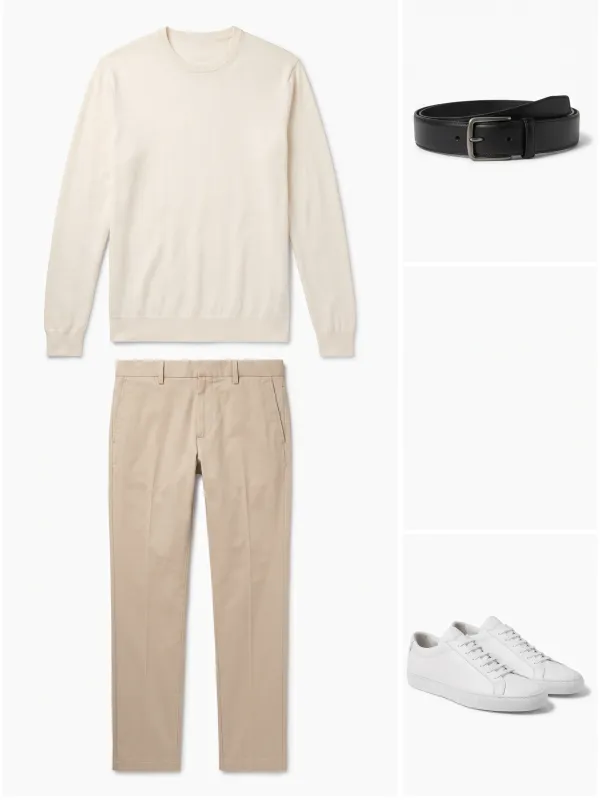
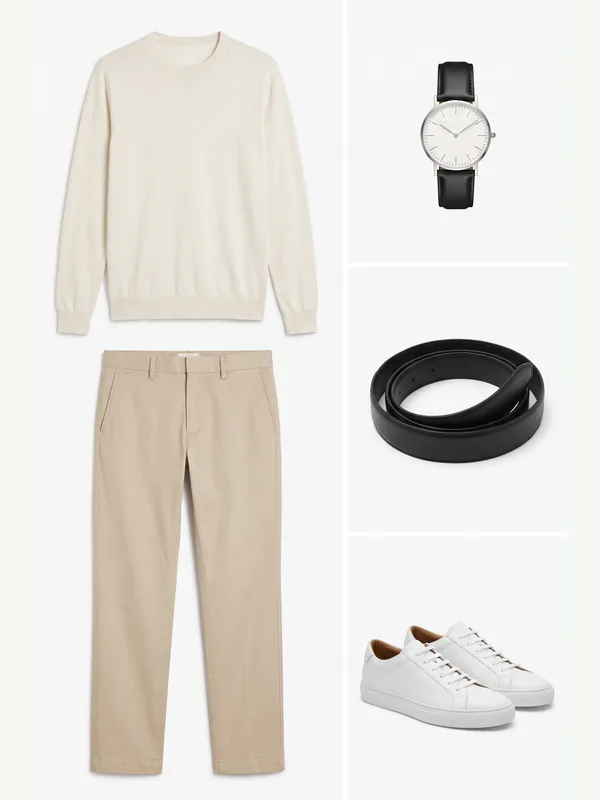
TuCloset web: app.js?v=0.318 · 19/11 02:15

diff --git a/index.html b/index.html
@@ -21,8 +21,8 @@
 <link rel="icon" href="iconos/icono-129-180.png">
 <link rel="apple-touch-icon" href="iconos/icono-129-180.png">
 <link rel="stylesheet" href="fuentes.css?v=0.123"><!-- 0.123: letras en la propia web, sin Google Fonts (sin enviar la IP de nadie a Google) -->
-<link rel="stylesheet" href="app.css?v=0.317">
-<script>/* 06/11 noche: propuesta de modo oscuro (Gabriela). ?modo=oscuro lo enciende en ese navegador, ?modo=claro lo apaga; oscuro.css solo se carga encendido */ try { var mq = new URLSearchParams(location.search).get('modo'); if (mq === 'oscuro' || mq === 'claro') localStorage.setItem('tc_modo', mq); document.documentElement.dataset.fondo = '4'; localStorage.removeItem('tc_fondo'); /* 07/11: fondo «Sin tarjeta», elegido por Gabriela */ if (localStorage.getItem('tc_modo') === 'oscuro') { document.documentElement.classList.add('oscuro'); document.querySelector('meta[name="theme-color"]').content = '#1A1410'; document.querySelector('meta[name="color-scheme"]').content = 'dark'; document.write('<link rel="stylesheet" href="oscuro.css?v=0.317">'); } } catch (e) { }</script>
+<link rel="stylesheet" href="app.css?v=0.318">
+<script>/* 06/11 noche: propuesta de modo oscuro (Gabriela). ?modo=oscuro lo enciende en ese navegador, ?modo=claro lo apaga; oscuro.css solo se carga encendido */ try { var mq = new URLSearchParams(location.search).get('modo'); if (mq === 'oscuro' || mq === 'claro') localStorage.setItem('tc_modo', mq); document.documentElement.dataset.fondo = '4'; localStorage.removeItem('tc_fondo'); /* 07/11: fondo «Sin tarjeta», elegido por Gabriela */ if (localStorage.getItem('tc_modo') === 'oscuro') { document.documentElement.classList.add('oscuro'); document.querySelector('meta[name="theme-color"]').content = '#1A1410'; document.querySelector('meta[name="color-scheme"]').content = 'dark'; document.write('<link rel="stylesheet" href="oscuro.css?v=0.318">'); } } catch (e) { }</script>
 </head>
 <body>
 <svg width="0" height="0" style="position:absolute" aria-hidden="true">
@@ -243,7 +243,7 @@
   <nav class="y3-nav" id="yo-lista" aria-label="Tu perfil"></nav>
   <!-- 0.114 (Gabriela, 28/10: «sigo sin ver la opción de ajustes, básico en cualquier app… ubícate en un panel de opciones: letra un poco más oscura, iconos, intuitivo, sin redundancias»): panel por grupos;
        desde el 08/11 vive en su propia pantalla (abrirAjustes) -->
-  <p class="nota" id="yo-version">TuCloset web 0.317 · 19 de noviembre de 2026</p>
+  <p class="nota" id="yo-version">TuCloset web 0.318 · 19 de noviembre de 2026</p>
 </main>
 
 <!-- MIS COLORES (0.111) -->
@@ -270,8 +270,8 @@
 <dialog id="dlg"><h2 id="dlg-t"></h2><p id="dlg-p"></p><div class="botones"><button class="boton" id="dlg-si"></button><button class="boton linea" id="dlg-no"></button></div></dialog>
 </div>
 <script>window.TC_PUBLICA=true</script>
-<script src="app.js?v=0.317"></script>
-<script>if (AT) document.write('<script src="motor-datos.js?v=0.317"><\/script><script src="motor.js?v=0.317"><\/script>');</script>
-<script src="at.js?v=0.317"></script>
+<script src="app.js?v=0.318"></script>
+<script>if (AT) document.write('<script src="motor-datos.js?v=0.318"><\/script><script src="motor.js?v=0.318"><\/script>');</script>
+<script src="at.js?v=0.318"></script>
 </body>
 </html>

diff --git a/at.js b/at.js
@@ -5,7 +5,7 @@
    está el conjunto completo… queda muy ajustado, tiene que quedar más holgado»: todo look en baldosa lleva 24 px de aire arriba y abajo.
    Solo actúa con ?propuesta=atelier (o ?ver=atelier una vez): sin ella, la app no cambia. */
 if (AT) (() => {
-  const l = document.createElement('link'); l.rel = 'stylesheet'; l.href = 'at.css?v=0.316'; document.head.append(l);
+  const l = document.createElement('link'); l.rel = 'stylesheet'; l.href = 'at.css?v=0.318'; document.head.append(l);
   document.documentElement.classList.add('at');
   const esc = s => String(s ?? '').replace(/[&<>"]/g, c => ({ '&': '&amp;', '<': '&lt;', '>': '&gt;', '"': '&quot;' }[c]));
   const en = () => idioma() === 'en', loc = () => en() ? 'en-GB' : 'es-ES';
@@ -520,7 +520,7 @@ if (AT) (() => {
     $('at-ropa-sel')?.remove(); const ro = E.perfil?.ropa;
     $('es-sub').insertAdjacentHTML('beforebegin', `<div id="at-ropa-sel"><h2 class="es-tit">${t('Ropa que llevas', 'What you wear')}</h2><div class="at-fila at-vj-ops at-insp-g">${ROPAS.map(([v, n]) => `<button class="${ro === v ? 'on' : ''}" data-ropasel="${v}" aria-pressed="${ro === v}">${n[en() ? 1 : 0].replace(/^Ropa de /, '').replace(/^\w/, c => c.toUpperCase())}${DOS}</button>`).join('')}</div></div>`);
     $('at-ropa-sel').onclick = async e => { const b = e.target.closest('[data-ropasel]'); if (!b) return; await ponerRopa(b.dataset.ropasel); pintarEstilo(); };
-    document.querySelectorAll('#es-lista [data-estilo]').forEach(b => { if (!FOTO_ESTILO.has(b.dataset.estilo)) return; const tela = b.querySelector('.es-tela'); tela.insertAdjacentHTML('beforebegin', `<img class="es-foto" src="${ro === 'hombre' ? 'estilos-h' : 'estilos'}/${b.dataset.estilo}.webp?v=1" alt="">`); tela.classList.add('es-mini'); });
+    document.querySelectorAll('#es-lista [data-estilo]').forEach(b => { if (!FOTO_ESTILO.has(b.dataset.estilo)) return; const tela = b.querySelector('.es-tela'); tela.insertAdjacentHTML('beforebegin', `<img class="es-foto" src="${ro === 'hombre' ? 'estilos-h' : 'estilos'}/${b.dataset.estilo}.webp?v=${ro === 'hombre' ? 2 : 1}" alt="">`); tela.classList.add('es-mini'); });
   };
 
   /* ---------- al volver de una prenda o de un look, el clóset y Looks siguen donde estaban (la queja repetida de las apps de armario) ---------- */

diff --git a/at.css b/at.css
@@ -495,9 +495,9 @@ html.at .av-tarjeta.creando .av-img { animation: av-lat 1.6s ease-in-out infinit
 html.at .at-pie:has(.at-puestob)::after { display: none; }
 html.at .at-puestob { width: 44px; height: 44px; display: inline-flex; align-items: center; justify-content: center; color: var(--tinta); flex: none; }
 html.at .at-puestob svg { width: 24px; height: 24px; fill: none; stroke: currentColor; stroke-width: 1.4; }
-html.at .at-puestob[aria-pressed="true"] { box-shadow: inset 0 -2px 0 var(--oro); }
+html.at .at-puestob[aria-pressed="true"], html.at .ag-ac[data-agpuesto][aria-pressed="true"] { box-shadow: inset 0 -2px 0 var(--oro); }
 /* 10/11: ya te lo has probado con el avatar → la figura rellena de dorado (en Hoy, en el look abierto y en la esquina de cada baldosa) */
-html.at .at-puestob.probado svg, html.at .at-probado svg, html.at .at-probado-i svg { fill: var(--oro); stroke: var(--tinta); }
+html.at .at-puestob.probado svg, html.at .ag-ac[data-agpuesto].probado svg, html.at .at-probado svg, html.at .at-probado-i svg { fill: var(--oro); stroke: var(--tinta); }
 html.at .at-bal { position: relative; }
 html.at .at-probado { position: absolute; top: 6px; right: 6px; width: 22px; height: 22px; display: flex; align-items: center; justify-content: center; pointer-events: none; }
 html.at .at-probado svg { width: 18px; height: 18px; stroke-width: 1.3; }

diff --git a/oscuro.css b/oscuro.css
@@ -1112,8 +1112,8 @@ html.at.oscuro .av-priv{color:var(--sec)}
 html.at.oscuro .av-priv svg{fill:none;stroke:currentColor}
 html.at.oscuro .at-puestob{color:var(--tinta)}
 html.at.oscuro .at-puestob svg{fill:none;stroke:currentColor}
-html.at.oscuro .at-puestob[aria-pressed="true"]{box-shadow:inset 0 -2px 0 var(--oro)}
-html.at.oscuro .at-puestob.probado svg,html.at.oscuro .at-probado svg,html.at.oscuro .at-probado-i svg{fill:var(--oro);stroke:var(--tinta)}
+html.at.oscuro .at-puestob[aria-pressed="true"],html.at.oscuro .ag-ac[data-agpuesto][aria-pressed="true"]{box-shadow:inset 0 -2px 0 var(--oro)}
+html.at.oscuro .at-puestob.probado svg,html.at.oscuro .ag-ac[data-agpuesto].probado svg,html.at.oscuro .at-probado svg,html.at.oscuro .at-probado-i svg{fill:var(--oro);stroke:var(--tinta)}
 html.at.oscuro .at-puesto-esp{color:var(--sec)}
 html.at.oscuro .at-como button{background:none;border:0;color:var(--sec);text-decoration:underline;text-decoration-color:transparent;text-decoration-thickness:1.5px}
 html.at.oscuro .at-como button[aria-pressed="true"]{color:var(--tinta);text-decoration-color:var(--oro)}

diff --git a/sw.js b/sw.js
@@ -1,5 +1,5 @@
 // TuCloset web 0.5 · caché de la aplicación: primero red (siempre lo último), caché si no hay red; el tiempo nunca se cachea
-const C = 'tucloset-0.317';
+const C = 'tucloset-0.318';
 const BASE = ['./', './index.html', './manifest.webmanifest'];
 self.addEventListener('install', e => { e.waitUntil(caches.open(C).then(c => c.addAll(BASE)).then(() => self.skipWaiting())); });
 self.addEventListener('activate', e => { e.waitUntil(caches.keys().then(ks => Promise.all(ks.filter(k => k !== C).map(k => caches.delete(k)))).then(() => self.clients.claim())); });
